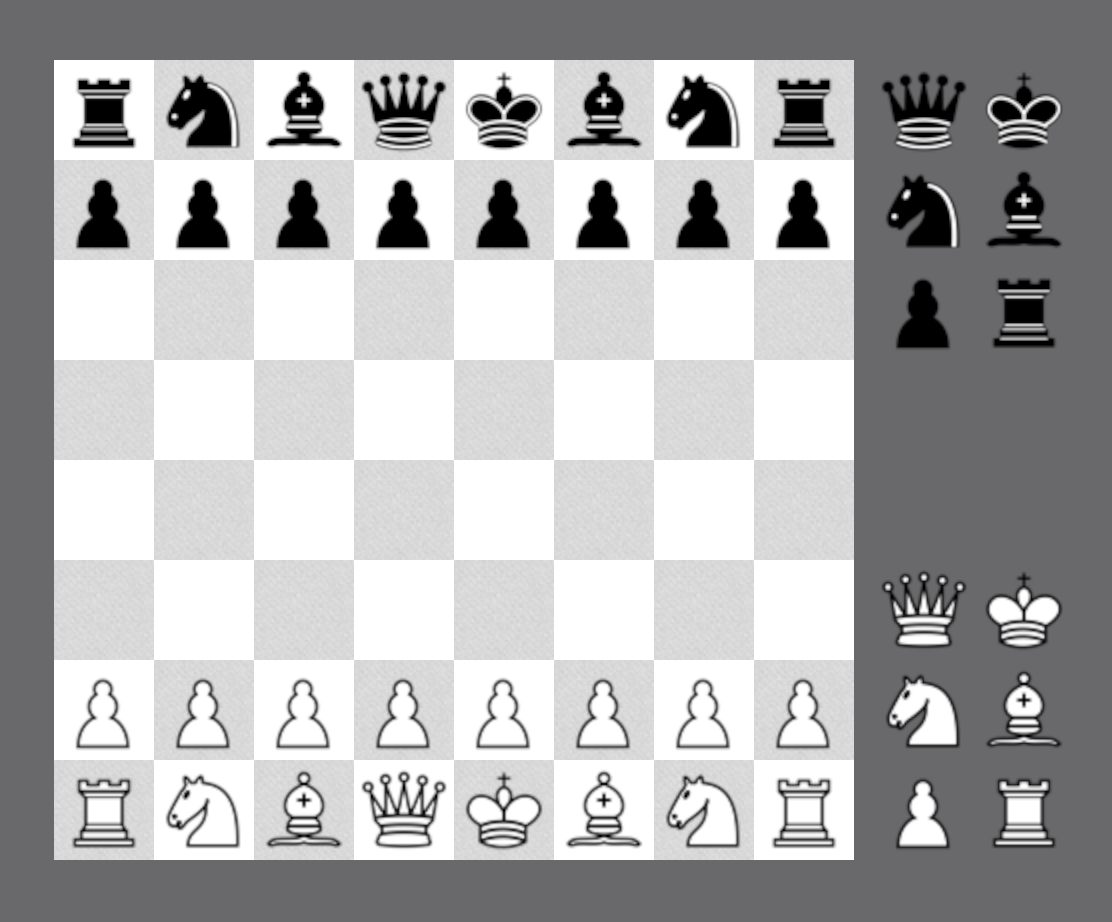
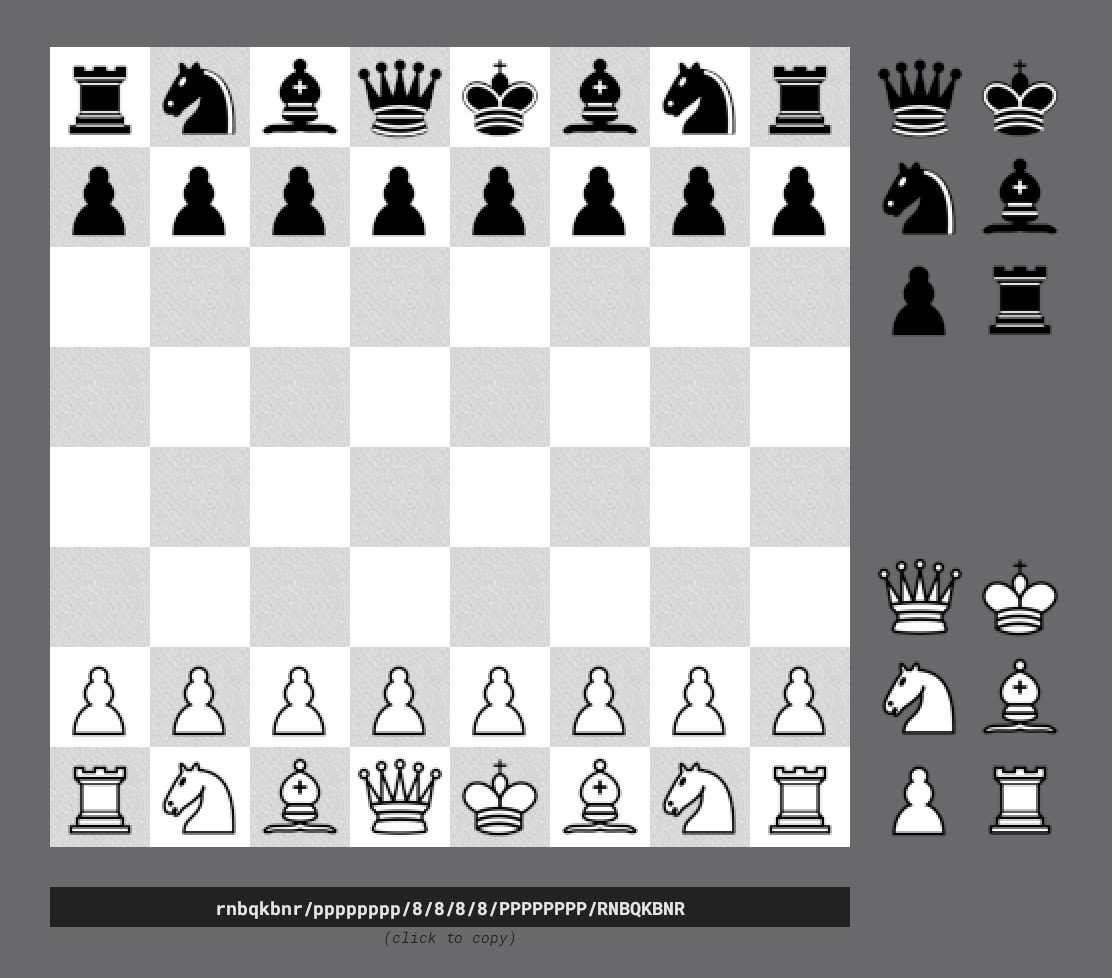
update readme with screenshot of the updated UX

diff --git a/README.md b/README.md
@@ -2,7 +2,7 @@
 
 a chess board with movable pieces.
 
-![grey and white chess board, grey and white pieces each in their starting positions and a selection menu of each piece along the right edge of the board](/img/board.png)
+![grey and white chess board, grey and white pieces each in their starting positions and a selection menu of each piece along the right edge of the board. below the board are white letters on a black background describing the positions on the board in FEN notation along with a note that you can click to copy the FEN description.](/img/board.png)
 
 the intention was to make something that behaves mostly like a chessboard on the table. useful for setting up puzzles and analyzing positions.
 
